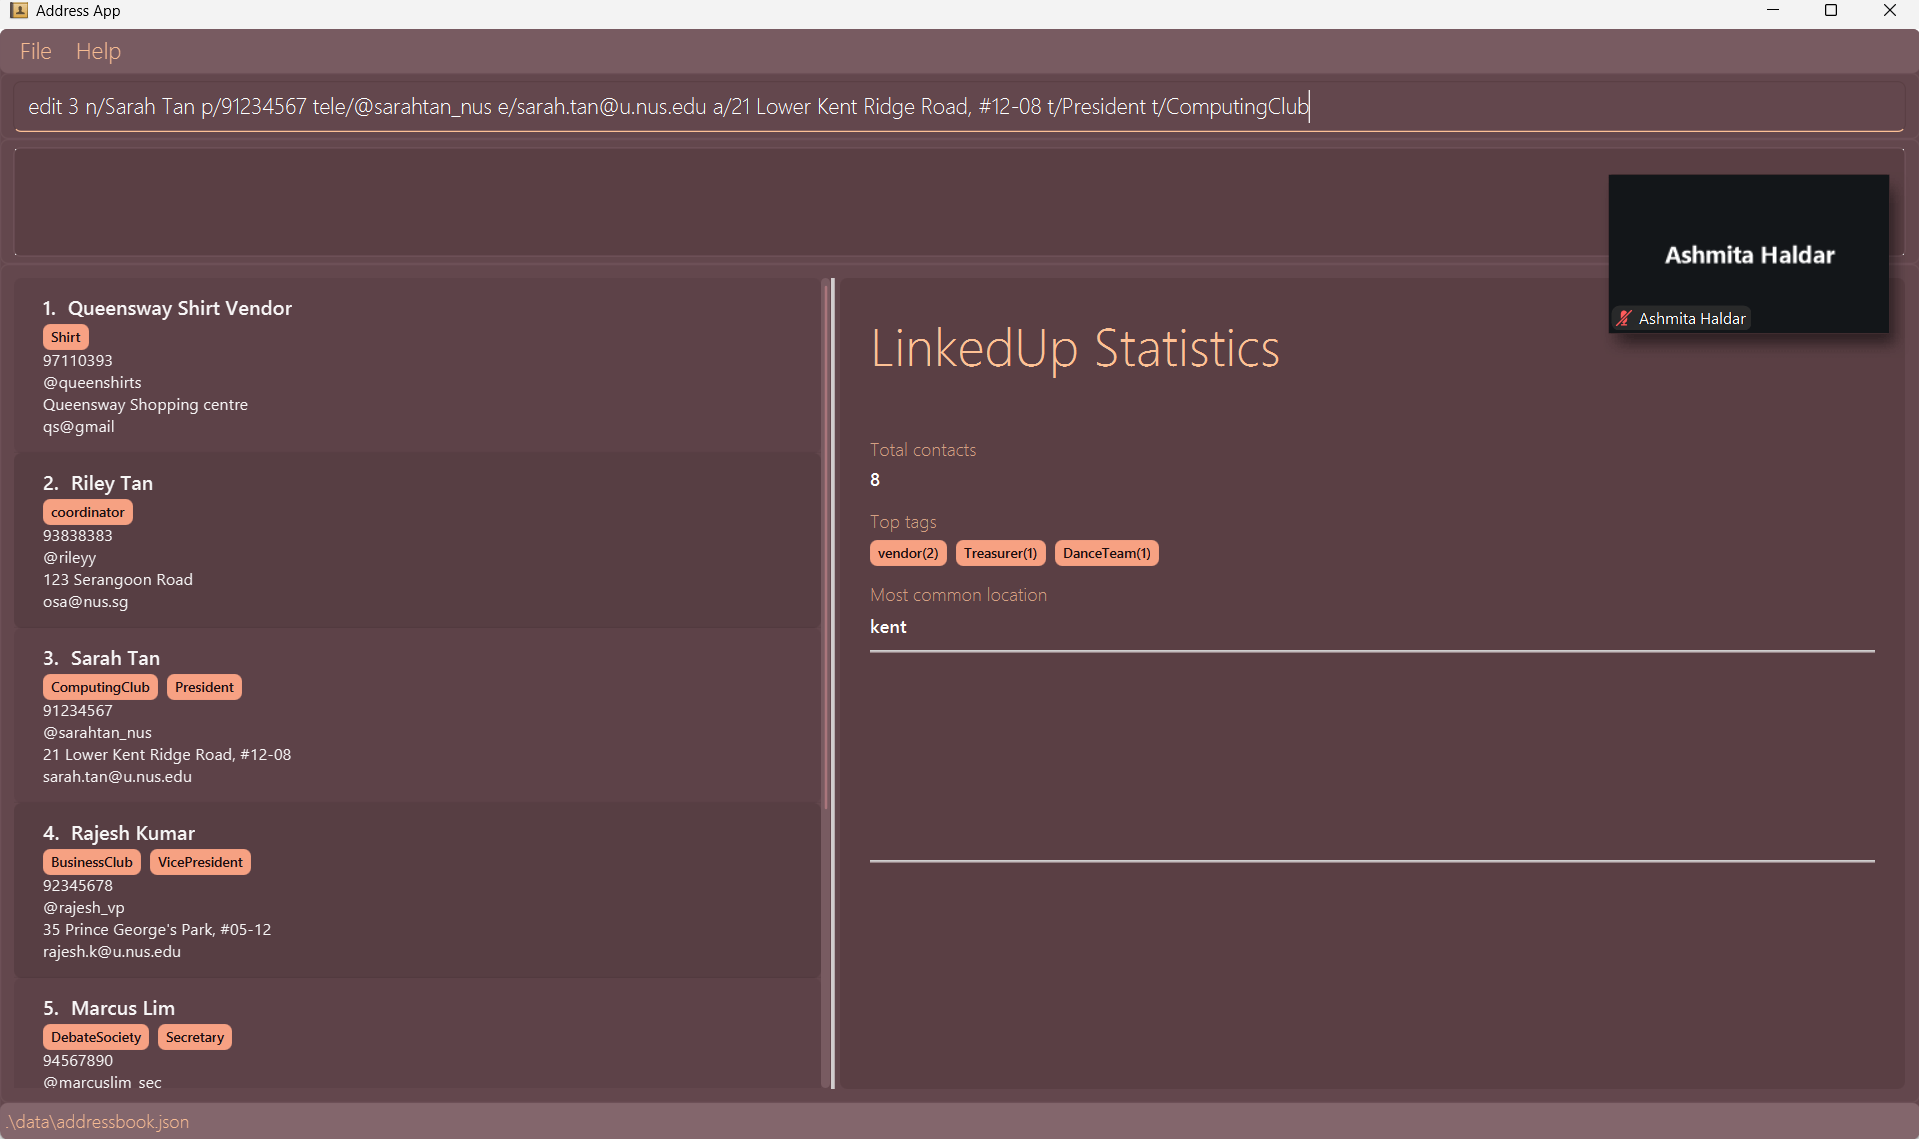
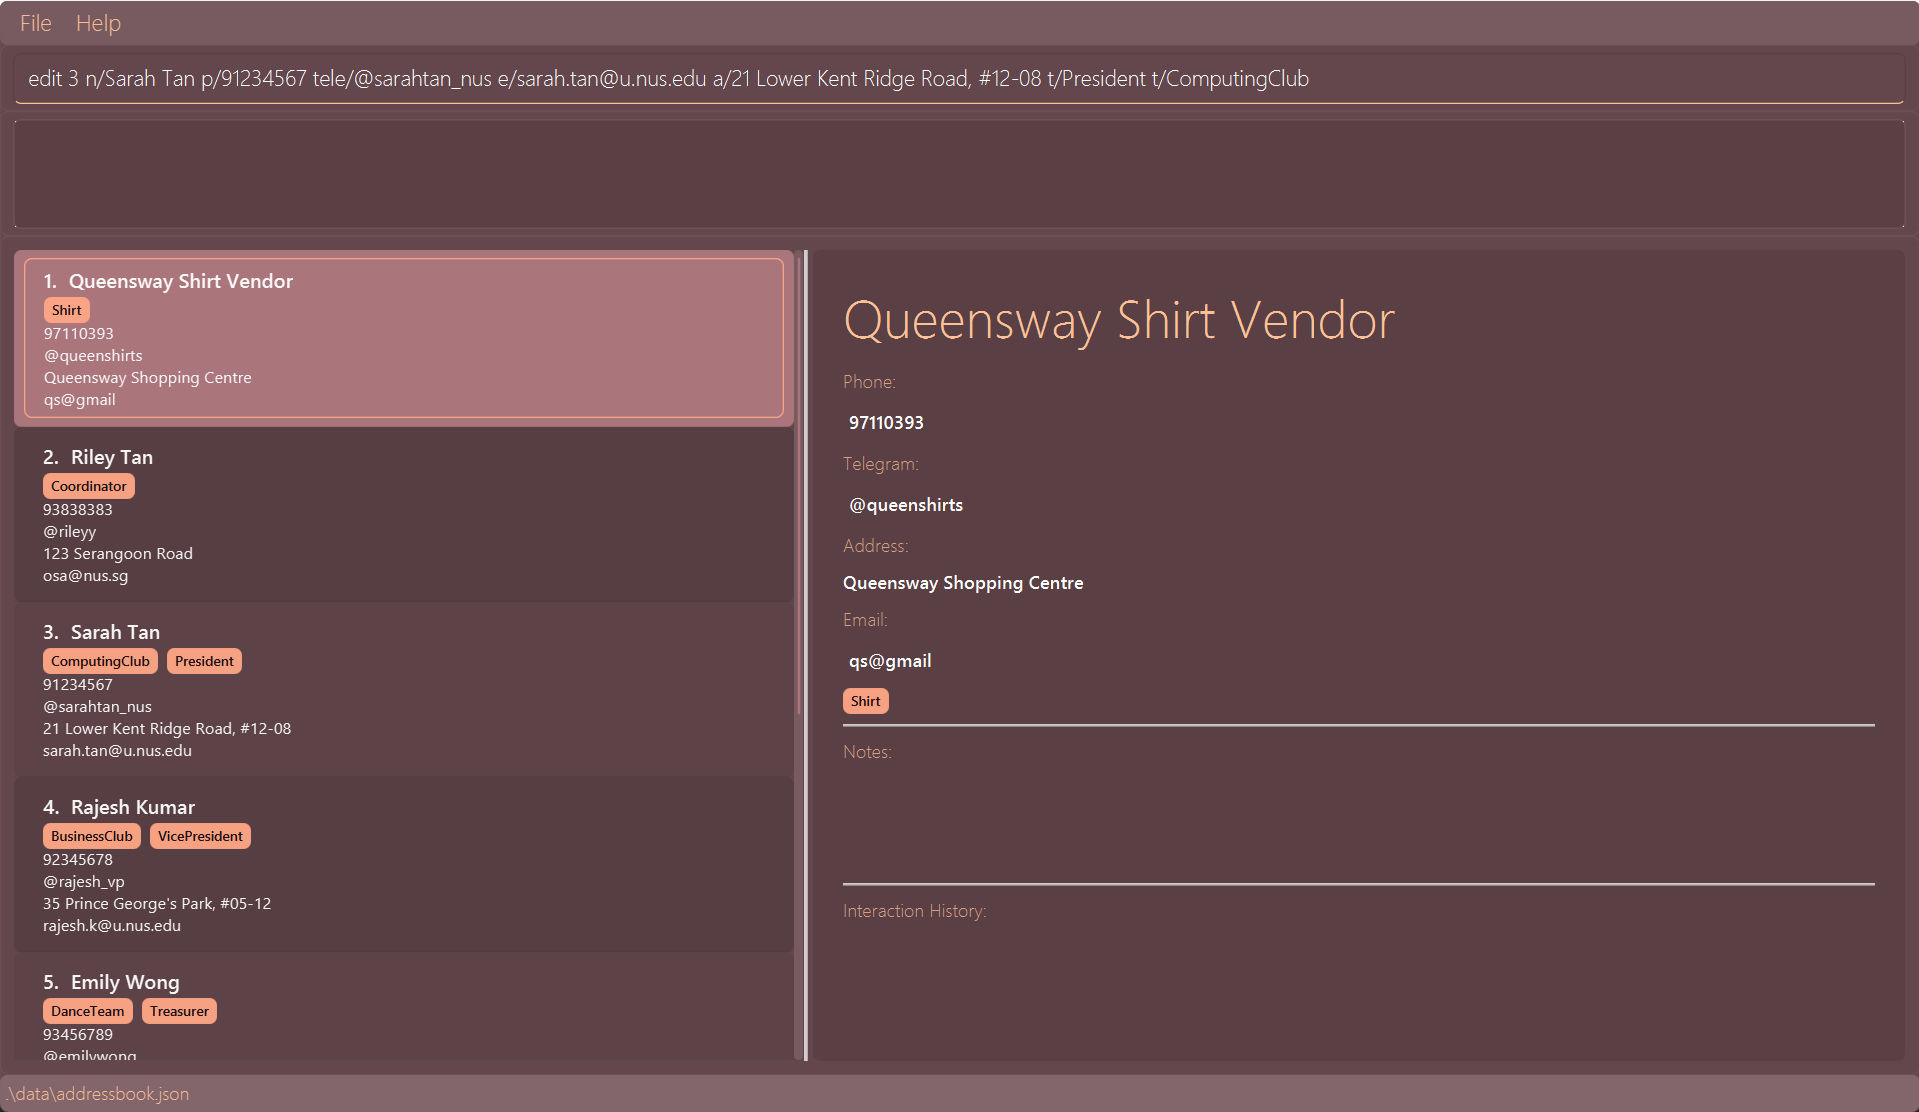
Fix clear confirm and dashboard for ped

Changed region(s): [[0.0, 0.214, 0.9531, 1.0], [0.0, 0.0, 1.0, 0.1223], [0.8301, 0.1529, 1.0, 0.3058]]

diff --git a/src/main/java/seedu/address/ui/PersonInfoPanel.java b/src/main/java/seedu/address/ui/PersonInfoPanel.java
@@ -7,7 +7,6 @@ import java.util.Comparator;
 import java.util.HashMap;
 import java.util.List;
 import java.util.Map;
-import java.util.Set;
 import java.util.logging.Logger;
 import java.util.stream.Collectors;
 
@@ -70,7 +69,9 @@ public class PersonInfoPanel extends UiPart<Region> {
     @FXML
     private FlowPane statTagFlow;
     @FXML
-    private Label statsLocationValue;
+    private Label statsEmailValue;
+    @FXML
+    private Label statsLogValue;
 
     private String telegramHandle;
     private Person currentPerson;
@@ -118,8 +119,10 @@ public class PersonInfoPanel extends UiPart<Region> {
             statTagFlow.getChildren().add(tagLabel);
         }
 
-        String mostCommonWord = getMostCommonAddressWord();
-        statsLocationValue.setText(mostCommonWord.isEmpty() ? "N/A" : mostCommonWord);
+        String mostCommonWord = getMostCommonEmailDomain();
+        statsEmailValue.setText(mostCommonWord.isEmpty() ? "-" : mostCommonWord);
+        statsLogValue.setText(getPersonMostLogs(this.addressBook.getPersonList()).isEmpty()
+                ? "no logs" : getPersonMostLogs(this.addressBook.getPersonList()));
 
         // ensure statsBox is visible and managed so it occupies layout space
         if (statsBox != null) {
@@ -226,28 +229,29 @@ public class PersonInfoPanel extends UiPart<Region> {
                 .collect(Collectors.toList());
     }
 
-    public String getMostCommonAddressWord() {
-        Map<String, Integer> wordCount = new HashMap<>();
-        Set<String> addressWords = Set.of(
-                "avenue", "ave", "street", "str", "road", "rd", "lane", "ln", "drive", "dr", "court", "ct"
-        );
+    private String getMostCommonEmailDomain() {
+        Map<String, Integer> domainCount = new HashMap<>();
 
         for (Person person : addressBook.getPersonList()) {
-            String[] words = person.getAddress().value.toLowerCase().split("[\\s,.-]+");
-
-            for (String word : words) {
-                if (word.matches(".*\\d.*")
-                        || addressWords.contains(word)) {
-                    continue;
-                }
-                wordCount.put(word, wordCount.getOrDefault(word, 0) + 1);
+            String email = person.getEmail().value;
+            int atIdx = email.indexOf('@');
+            if (atIdx != -1) {
+                String domain = email.substring(atIdx + 1);
+                domainCount.put(domain, domainCount.getOrDefault(domain, 0) + 1);
             }
         }
 
-        return wordCount.entrySet().stream()
+        return domainCount.entrySet().stream()
                 .max(Map.Entry.comparingByValue())
                 .map(Map.Entry::getKey)
                 .orElse("");
+    }
+
+    private String getPersonMostLogs(List<Person> allPersons) {
+        return allPersons.stream()
+                .filter(p -> !p.getLogs().isEmpty())
+                .max(Comparator.comparingInt(p -> p.getLogs().size()))
+                .map(p -> p.getName().fullName + " (" + p.getLogs().size() + ")").orElse("");
     }
 
     public boolean getCurrentPersonExists() {

diff --git a/src/main/java/seedu/address/logic/parser/ParserUtil.java b/src/main/java/seedu/address/logic/parser/ParserUtil.java
@@ -29,7 +29,7 @@ import seedu.address.model.tag.Tag;
 public class ParserUtil {
 
     public static final String MESSAGE_INVALID_INDEX = "Index is not a non-zero unsigned integer.";
-    public static final String CLEAR_CONFIRMATION_MESSAGE = "confirm";
+    public static final String CLEAR_CONFIRMATION_MESSAGE = " confirm";
     /**
      * Parses {@code oneBasedIndex} into an {@code Index} and returns it. Leading and trailing whitespaces will be
      * trimmed.
@@ -213,6 +213,6 @@ public class ParserUtil {
     }
 
     public static boolean parseConfirmation(String input) throws ParseException {
-        return input.equals(CLEAR_CONFIRMATION_MESSAGE);
+        return input.startsWith(CLEAR_CONFIRMATION_MESSAGE);
     }
 }

diff --git a/src/main/java/seedu/address/logic/parser/ClearCommandParser.java b/src/main/java/seedu/address/logic/parser/ClearCommandParser.java
@@ -17,7 +17,7 @@ public class ClearCommandParser implements Parser<ClearCommand> {
      */
     public ClearCommand parse(String args) throws ParseException {
         try {
-            boolean isConfirmed = ParserUtil.parseConfirmation(args.trim());
+            boolean isConfirmed = ParserUtil.parseConfirmation(args);
             if (isConfirmed) {
                 return new ClearCommand(true);
             } else {

diff --git a/docs/DeveloperGuide.md b/docs/DeveloperGuide.md
@@ -30,7 +30,7 @@ Given below is a quick overview of main components and how they interact with ea
 
 **Main components of the architecture**
 
-**`Main`** (consisting of classes [`Main`](https://github.com/se-edu/addressbook-level3/tree/master/src/main/java/seedu/address/Main.java) and [`MainApp`](https://github.com/se-edu/addressbook-level3/tree/master/src/main/java/seedu/address/MainApp.java)) is in charge of the app launch and shut down.
+**`Main`** (consisting of classes [`Main`](https://github.com/AY2526S1-CS2103T-W09-1/tp/blob/master/src/main/java/seedu/address/Main.java) and [`MainApp`](https://github.com/AY2526S1-CS2103T-W09-1/tp/blob/master/src/main/java/seedu/address/MainApp.java)) is in charge of the app launch and shut down.
 * At app launch, it initializes the other components in the correct sequence, and connects them up with each other.
 * At shut down, it shuts down the other components and invokes cleanup methods where necessary.
 
@@ -64,13 +64,13 @@ The sections below give more details of each component.
 
 ### UI component
 
-The **API** of this component is specified in [`Ui.java`](https://github.com/se-edu/addressbook-level3/tree/master/src/main/java/seedu/address/ui/Ui.java)
+The **API** of this component is specified in [`Ui.java`](https://github.com/AY2526S1-CS2103T-W09-1/tp/blob/master/src/main/java/seedu/address/ui/Ui.java)
 
 ![Structure of the UI Component](images/UiClassDiagram.png)
 
 The UI consists of a `MainWindow` that is made up of parts e.g.`CommandBox`, `ResultDisplay`, `PersonListPanel`, `StatusBarFooter` etc. All these, including the `MainWindow`, inherit from the abstract `UiPart` class which captures the commonalities between classes that represent parts of the visible GUI.
 
-The `UI` component uses the JavaFx UI framework. The layout of these UI parts are defined in matching `.fxml` files that are in the `src/main/resources/view` folder. For example, the layout of the [`MainWindow`](https://github.com/se-edu/addressbook-level3/tree/master/src/main/java/seedu/address/ui/MainWindow.java) is specified in [`MainWindow.fxml`](https://github.com/se-edu/addressbook-level3/tree/master/src/main/resources/view/MainWindow.fxml)
+The `UI` component uses the JavaFx UI framework. The layout of these UI parts are defined in matching `.fxml` files that are in the `src/main/resources/view` folder. For example, the layout of the [`MainWindow`](https://github.com/AY2526S1-CS2103T-W09-1/tp/blob/master/src/main/java/seedu/address/ui/MainWindow.java) is specified in [`MainWindow.fxml`](https://github.com/AY2526S1-CS2103T-W09-1/tp/blob/master/src/main/resources/view/MainWindow.fxml)
 
 The `UI` component,
 
@@ -81,7 +81,7 @@ The `UI` component,
 
 ### Logic component
 
-**API** : [`Logic.java`](https://github.com/se-edu/addressbook-level3/tree/master/src/main/java/seedu/address/logic/Logic.java)
+**API** : [`Logic.java`](https://github.com/AY2526S1-CS2103T-W09-1/tp/blob/master/src/main/java/seedu/address/logic/Logic.java)
 
 Here's a (partial) class diagram of the `Logic` component:
 
@@ -111,7 +111,7 @@ How the parsing works:
 * All `XYZCommandParser` classes (e.g., `AddCommandParser`, `DeleteCommandParser`, ...) inherit from the `Parser` interface so that they can be treated similarly where possible e.g, during testing.
 
 ### Model component
-**API** : [`Model.java`](https://github.com/se-edu/addressbook-level3/tree/master/src/main/java/seedu/address/model/Model.java)
+**API** : [`Model.java`](https://github.com/AY2526S1-CS2103T-W09-1/tp/blob/master/src/main/java/seedu/address/model/Model.java)
 
 <img src="images/ModelClassDiagram.png" width="450" />
 
@@ -132,7 +132,7 @@ The `Model` component,
 
 ### Storage component
 
-**API** : [`Storage.java`](https://github.com/se-edu/addressbook-level3/tree/master/src/main/java/seedu/address/storage/Storage.java)
+**API** : [`Storage.java`](https://github.com/AY2526S1-CS2103T-W09-1/tp/blob/master/src/main/java/seedu/address/storage/Storage.java)
 
 <img src="images/StorageClassDiagram.png" width="550" />
 

diff --git a/docs/UserGuide.md b/docs/UserGuide.md
@@ -15,6 +15,7 @@ title: User Guide
   * [Viewing help](#view)
   * [Adding a contact](#add)
   * [Listing all contacts](#list)
+  * [Statistics table](#stats)
   * [Editing a contact](#edit)
   * [Adding a note to a contact](#note)
   * [Locating contacts by name](#find)
@@ -128,9 +129,19 @@ Example:
 
 ### [Listing all contacts : `list`](#toc) <a name="list"></a>
 
-Shows a list of all contacts in the address book.
+Shows a list of all contacts in the address book. Also pulls up statistics dashboard.
 
 Format: `list`
+
+### [Pulling up statistics : `stats`](#toc) <a name="stats"></a>
+
+Shows a statistical summary of all the contacts inside LinkedUp.
+The details displayed will reflect the overall information and will not change unless core data is changed.
+E.g `filter`, `find` will not update the stats, but for `delete`, `tag` etc will cause statistics to update.
+
+For user optimisation, we have also configured `add` and `edit` (not the shortcut) to switch the display to the target contact instead of the stats to allow users to track their major changes.
+
+Format: `stats`
 
 ### [Editing a contact : `edit`](#toc) <a name="edit"></a>
 
@@ -157,7 +168,7 @@ Format: `edit INDEX [n/NAME] [p/PHONE] [e/EMAIL] [a/ADDRESS] [t/TAG]…`
 * Edits the contact at the specified `INDEX`. The index refers to the index number shown in the displayed contact list. The index **must be a positive integer** 1, 2, 3, …
 * At least one of the optional fields must be provided.
 * Existing values will be updated to the input values.
-* When editing tags, the existing tags of the contact will be removed i.e adding of tags is not cumulative.
+* When editing tags, the existing set of tags will be replaced by the new ones i.e adding of tags is not cumulative.
 * You can remove all the contact’s tags by typing `t/` without
   specifying any tags after it.
 
@@ -412,6 +423,7 @@ Action | Format, Examples
 --------|------------------
 **Add** | `add n/NAME p/PHONE_NUMBER e/EMAIL a/ADDRESS [t/TAG]…` <br> e.g., `add n/James Ho p/22224444 e/jamesho@example.com a/123, Clementi Rd, 1234665 t/friend t/colleague`
 **Clear** | `clear`
+**Stats** | `stats`
 **Delete** | `delete INDEX`<br> e.g., `delete 3`
 **Edit autofill** | `edit INDEX `<br> e.g.,`edit 2`
 **Edit** | `edit INDEX [n/NAME] [p/PHONE_NUMBER] [e/EMAIL] [a/ADDRESS] [t/TAG]…`<br> e.g.,`edit 2 n/James Lee e/jameslee@example.com`
